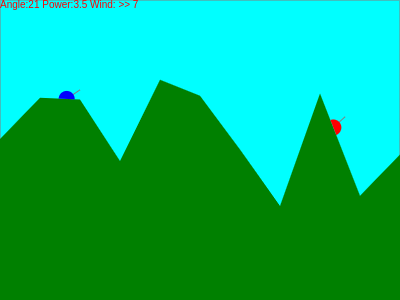
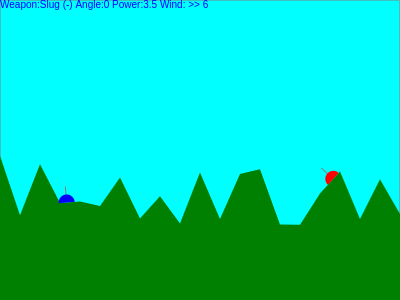
Added weapon types to switch between, some of which produce a bigger explosion, but have limited ammo.

Changed region(s): [[0.0, 0.27, 0.66, 0.75], [0.66, 0.3, 1.0, 0.75], [0.0, 0.0, 0.54, 0.03]]

diff --git a/Source/Activity.js b/Source/Activity.js
@@ -64,24 +64,43 @@ function Activity(perform)
 				}
 				else if (inputActive == "Enter")
 				{
-					var projectile = new Projectile
-					(
-						actor.color,
-						actor.muzzlePos.clone(),
-						// vel
-						actor.firePolarAbsolute().toCoords
+					var itemSelected = actor.itemSelected();
+					if (itemSelected.quantity == null || itemSelected.quantity > 0)
+					{
+						if (itemSelected.quantity != null)
+						{
+							itemSelected.quantity--;
+						}
+
+						var projectile = itemSelected.projectileBuild
 						(
-							new Coords()
-						).normalize().multiplyScalar
-						(
-							actor.powerCurrent
-						)
-					);
- 
-					world.projectiles = [ projectile ];
- 
-					world.actorCurrentAdvance();
+							world,
+							actor.color,
+							actor.muzzlePos.clone(),
+							// vel
+							actor.firePolarAbsolute().toCoords
+							(
+								new Coords()
+							).normalize().multiplyScalar
+							(
+								actor.powerCurrent
+							)
+						);
+
+						world.projectiles = [ projectile ];
+
+						world.actorCurrentAdvance();
+					}
 				}   
+				else if (inputActive == "Tab")
+				{
+					actor.itemSelectedIndex++;
+					if (actor.itemSelectedIndex >= actor.items.length)
+					{
+						actor.itemSelectedIndex = 0;
+					}
+				}
+
 				inputHelper.keyPressed = false;
 			}
 		);

diff --git a/Source/World.js b/Source/World.js
@@ -1,9 +1,10 @@
  
-function World(gravityPerTick, size, landscape, actors)
+function World(gravityPerTick, size, landscape, itemDefns, actors)
 {
 	this.gravityPerTick = gravityPerTick;
 	this.size = size;
 	this.landscape = landscape;
+	this.itemDefns = itemDefns.addLookupsByName();
 	this.actors = actors;
 
 	this.skyColor = "Cyan";
@@ -16,21 +17,33 @@ function World(gravityPerTick, size, landscape, actors)
 {
 	World.random = function(gravityPerTick, size)
 	{
-		var landscape = Landscape.random(size, 10);
+		var landscape = Landscape.random(size, 20);
  
+		var itemDefns = ItemDefn.Instances()._All;
+
 		var actors = 
 		[
 			new Actor
 			(
 				"Blue", 
 				new Coords(size.x / 6, 0),
-				Activity.Instances.UserInputAccept
+				Activity.Instances.UserInputAccept,
+				[
+					new Item("Slug", null),
+					new Item("Shell", 3),
+					new Item("ShellLarge", 1)
+				]
 			), 
 			new Actor
 			(
 				"Red", 
 				new Coords(5 * size.x / 6, 0),
-				Activity.Instances.UserInputAccept
+				Activity.Instances.UserInputAccept,
+				[
+					new Item("Slug", null),
+					new Item("Shell", 3),
+					new Item("ShellLarge", 1)
+				]
 			), 
 		];
 
@@ -39,6 +52,7 @@ function World(gravityPerTick, size, landscape, actors)
 			gravityPerTick,
 			size,
 			landscape,
+			itemDefns,
 			actors
 		);
 

diff --git a/Source/Actor.js b/Source/Actor.js
@@ -1,10 +1,13 @@
  
-function Actor(color, pos, activity)
+function Actor(color, pos, activity, items)
 {
 	this.color = color;
 	this.loc = new Location(pos);
 	this.activity = activity;
  
+	this.items = items;
+	this.itemSelectedIndex = 0;
+
 	this.wins = 0;
 	this.ticksSinceKilled = null;
 	this.ticksToDie = 30;
@@ -38,6 +41,11 @@ function Actor(color, pos, activity)
 		var forwardInTurns = new Polar().fromCoords(forward).azimuthInTurns;
 		var returnValue = this.firePolar.clone().addToAzimuthInTurns(forwardInTurns);
 		return returnValue;
+	};
+
+	Actor.prototype.itemSelected = function()
+	{
+		return this.items[this.itemSelectedIndex];
 	};
 
 	Actor.prototype.reset = function()
@@ -133,7 +141,8 @@ function Actor(color, pos, activity)
 			var windDirection = (windVelocity < 0 ? "<<" : ">>");
 			var windSpeed = Math.abs(windVelocity);
 			var text =
-				"Angle:" + fireAzimuthInDegrees
+				"Weapon:" + this.itemSelected().toString()
+				+ " Angle:" + fireAzimuthInDegrees
 				+ " Power:" + this.powerCurrent
 				+ " Wind: " + windDirection + " " + windSpeed;
 

diff --git a/Source/Landscape.js b/Source/Landscape.js
@@ -107,14 +107,25 @@ function Landscape(size, horizonPoints)
 		var altitudeRangeHalf = altitudeRange / 2;
 		var altitudeMin = altitudeMid - altitudeRangeHalf;
 		var altitudeMax = altitudeMin + altitudeRange;
+
+		var altitudeChangeMaxPerPoint = 4 * this.size.x / this.edges.length;
  
-		this.edges[0].vertices[0].y = 
-			altitudeMin + Math.random() * altitudeRange;
+		var pointPrev = this.edges[0].vertices[0];
+		pointPrev.y = altitudeMin + Math.random() * altitudeRange;
+
 		for (var i = 0; i < this.edges.length; i++)
 		{
 			var edge = this.edges[i];
 			var point = edge.vertices[1];
-			point.y = altitudeMin + Math.random() * altitudeRange;
+			point.y = pointPrev.y + Math.random() * altitudeChangeMaxPerPoint;
+			if (point.y < altitudeMin)
+			{
+				point.y = altitudeMin + (altitudeMin - point.y);
+			}
+			else if (point.y > altitudeMax)
+			{
+				point.y = altitudeMax - (point.y - altitudeMax);
+			}
 		}
 		this._vertices = null;
  

diff --git a/Source/ItemDefn.js b/Source/ItemDefn.js
@@ -1,0 +1,39 @@
+
+function ItemDefn(name, projectileBuild)
+{
+	this.name = name;
+	this.projectileBuild = projectileBuild;
+}
+{
+	ItemDefn.Instances = function()
+	{
+		if (ItemDefn._instances == null)
+		{
+			ItemDefn._instances = new ItemDefn_Instances();
+		}
+		return ItemDefn._instances;
+	};
+
+	function ItemDefn_Instances()
+	{
+		this.Shell = new ItemDefn
+		(
+			"Shell", (color, pos, vel) => new Projectile(color, pos, vel, 20)
+		);
+		this.ShellLarge = new ItemDefn
+		(
+			"ShellLarge", (color, pos, vel) => new Projectile(color, pos, vel, 50)
+		);
+		this.Slug = new ItemDefn
+		(
+			"Slug", (color, pos, vel) => new Projectile(color, pos, vel, 2)
+		);
+
+		this._All =
+		[
+			this.Shell,
+			this.ShellLarge,
+			this.Slug
+		].addLookupsByName();
+	}
+}

diff --git a/Source/ArtilleryGame.html b/Source/ArtilleryGame.html
@@ -21,6 +21,8 @@
 <script type="text/javascript" src="Actor.js"></script>
 <script type="text/javascript" src="Globals.js"></script>
 <script type="text/javascript" src="InputHelper.js"></script>
+<script type="text/javascript" src="Item.js"></script>
+<script type="text/javascript" src="ItemDefn.js"></script>
 <script type="text/javascript" src="Landscape.js"></script>
 <script type="text/javascript" src="Projectile.js"></script>
 <script type="text/javascript" src="World.js"></script>

diff --git a/Source/Item.js b/Source/Item.js
@@ -1,0 +1,22 @@
+
+function Item(defnName, quantity)
+{
+	this.defnName = defnName;
+	this.quantity = quantity;
+}
+{
+	Item.prototype.defn = function(world)
+	{
+		return world.itemDefns[this.defnName];
+	};
+
+	Item.prototype.projectileBuild = function(world, color, pos, vel)
+	{
+		return this.defn(world).projectileBuild(color, pos, vel);
+	};
+
+	Item.prototype.toString = function()
+	{
+		return this.defnName + " (" + (this.quantity || "-") + ")";
+	};
+}

diff --git a/Source/Projectile.js b/Source/Projectile.js
@@ -1,15 +1,16 @@
  
-function Projectile(color, pos, vel)
+function Projectile(color, pos, vel, radiusExplodingMax)
 {
 	this.color = color;
 	this.pos = pos;
 	this.vel = vel;
+	this.radiusExplodingMax = radiusExplodingMax;
  
-	this.collider = new Sphere(this.pos, 2);
+	var radiusInFlight = 2;
+	this.collider = new Sphere(this.pos, radiusInFlight);
  
 	this.ticksSinceExplosion = null;
 	this.ticksToExplode = 30;
-	this.radiusExplodingMax = 20;
 }
 
 {

diff --git a/Source/InputHelper.js b/Source/InputHelper.js
@@ -2,6 +2,7 @@
 function InputHelper()
 {
 	this.keyPressed = null;
+	this.keysToPreventDefaultsFor = [ "Tab" ];
 }
 
 {
@@ -15,5 +16,9 @@ function InputHelper()
 	InputHelper.prototype.handleEventKeyDown = function(event)
 	{
 		this.keyPressed = event.key;
+		if (this.keysToPreventDefaultsFor.indexOf(this.keyPressed) >= 0)
+		{
+			event.preventDefault();
+		}
 	}
 }
